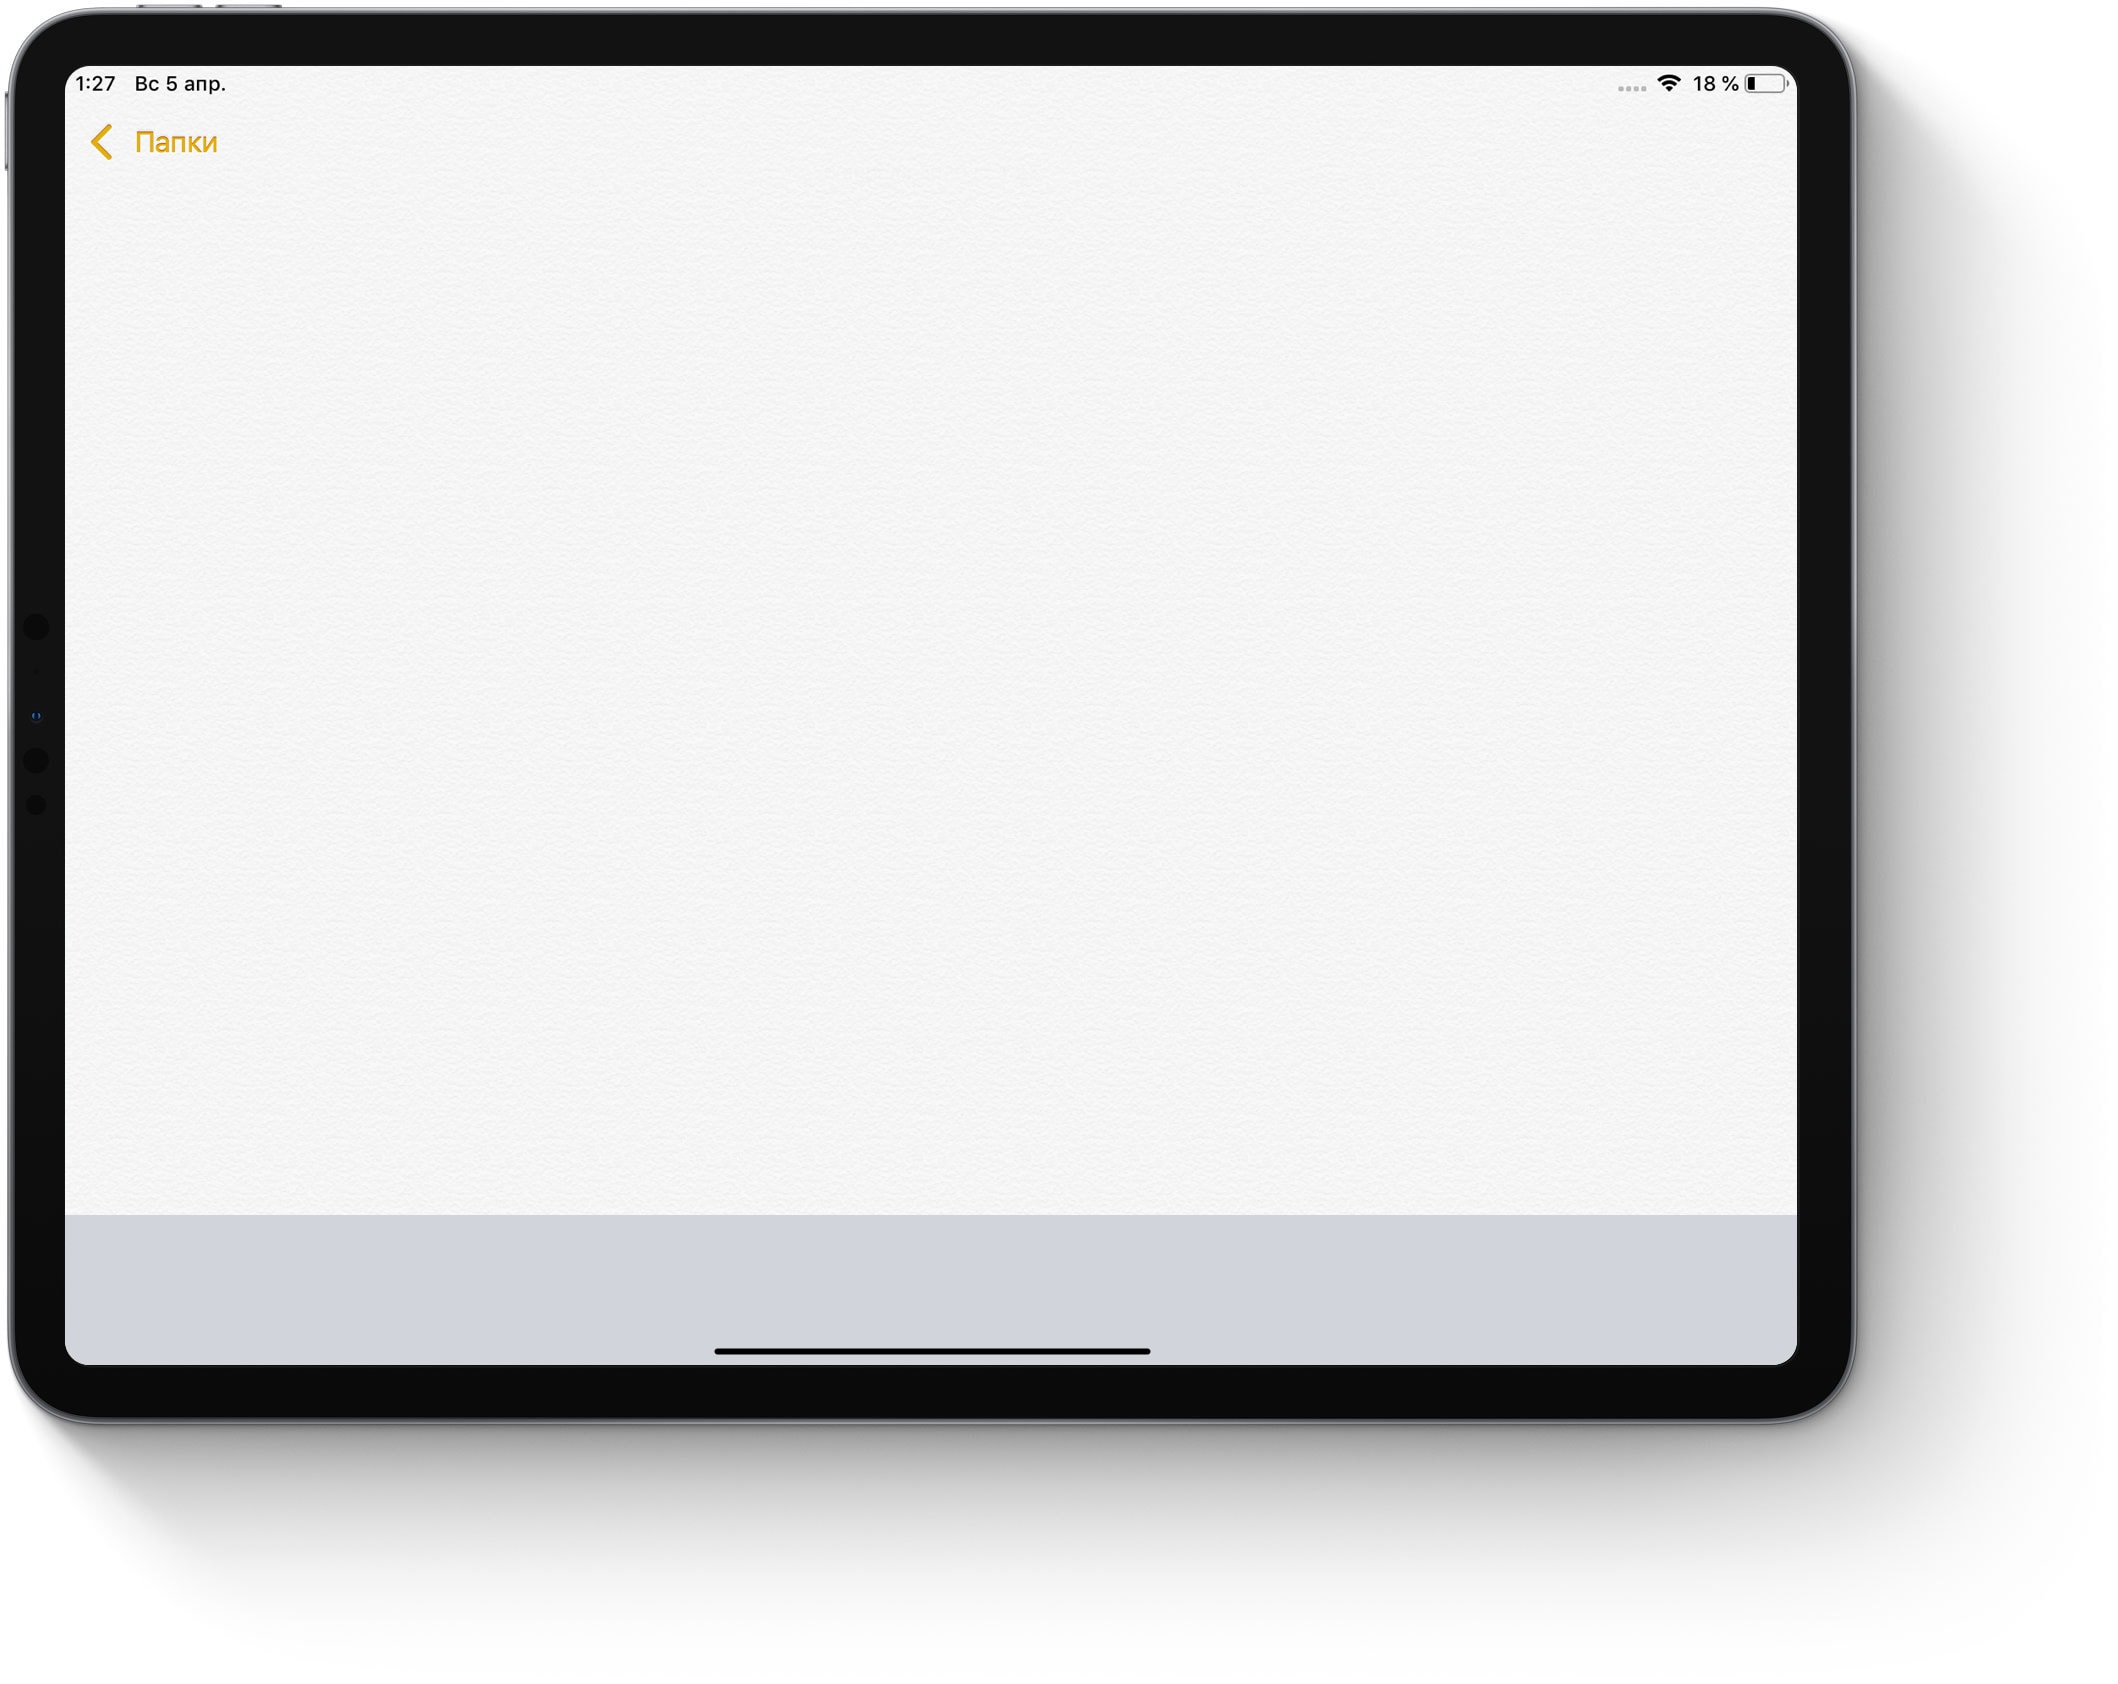
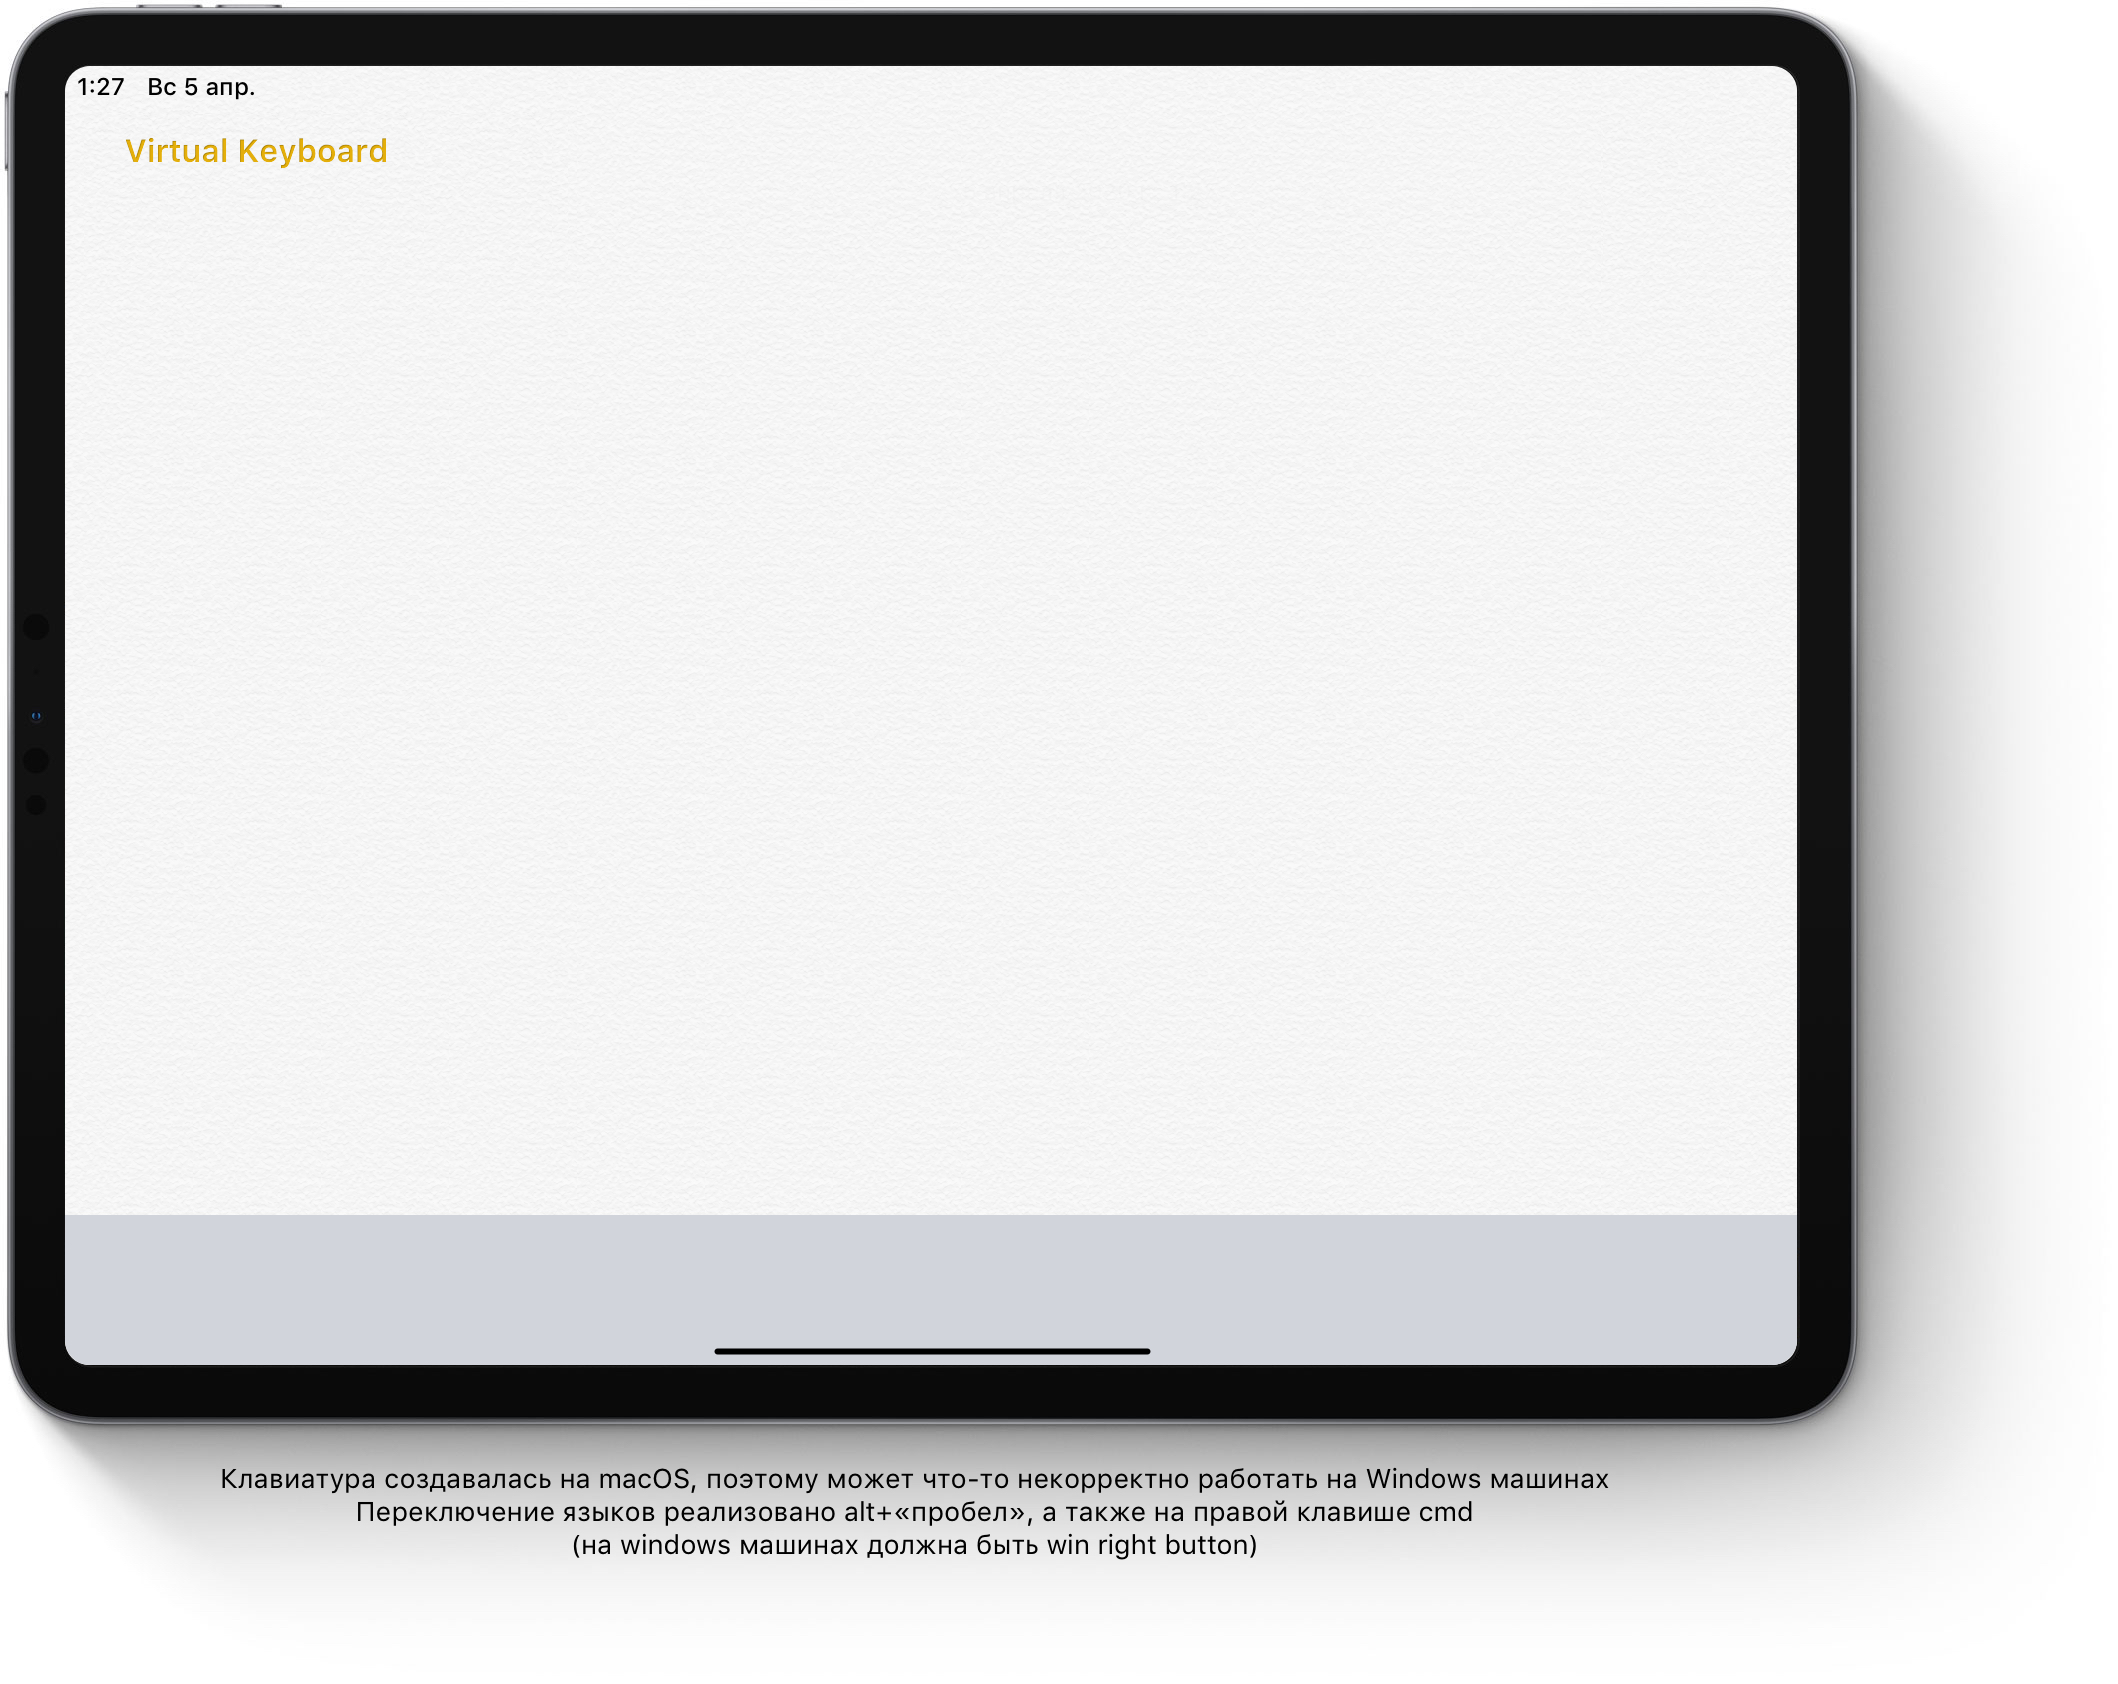
fix: remove error code and image

Changed region(s): [[0.1246, 0.8646, 0.7479, 0.9264], [0.0312, 0.0309, 0.187, 0.0926], [0.779, 0.0309, 0.8414, 0.0618]]

diff --git a/script.js b/script.js
@@ -15,7 +15,7 @@ const Keyboard = {
     value: '',
     capsLock: false,
     shift: false,
-    cmd: false,
+    alt: false,
     lang: 'eng',
   },
 
@@ -61,12 +61,12 @@ const Keyboard = {
         this.toggleShift();
       }
 
-      if (evt.code === 'AltLeft') {
-        this.properties.cmd = true;
+      if (evt.code === 'AltLeft' || evt.code === 'AltRight') {
+        this.properties.alt = true;
         this.elements.keys[54].classList.add('keyboard__key--option-key');
       }
 
-      if (evt.code === 'Space' && this.properties.cmd) {
+      if (evt.code === 'Space' && this.properties.alt) {
         this.toggleLang();
       }
 
@@ -84,8 +84,8 @@ const Keyboard = {
         }
         this.toggleShift();
       }
-      if (evt.code === 'AltLeft') {
-        this.properties.cmd = false;
+      if (evt.code === 'AltLeft' || evt.code === 'AltRight') {
+        this.properties.alt = false;
         this.elements.keys[54].classList.remove('keyboard__key--option-key');
       }
     });
